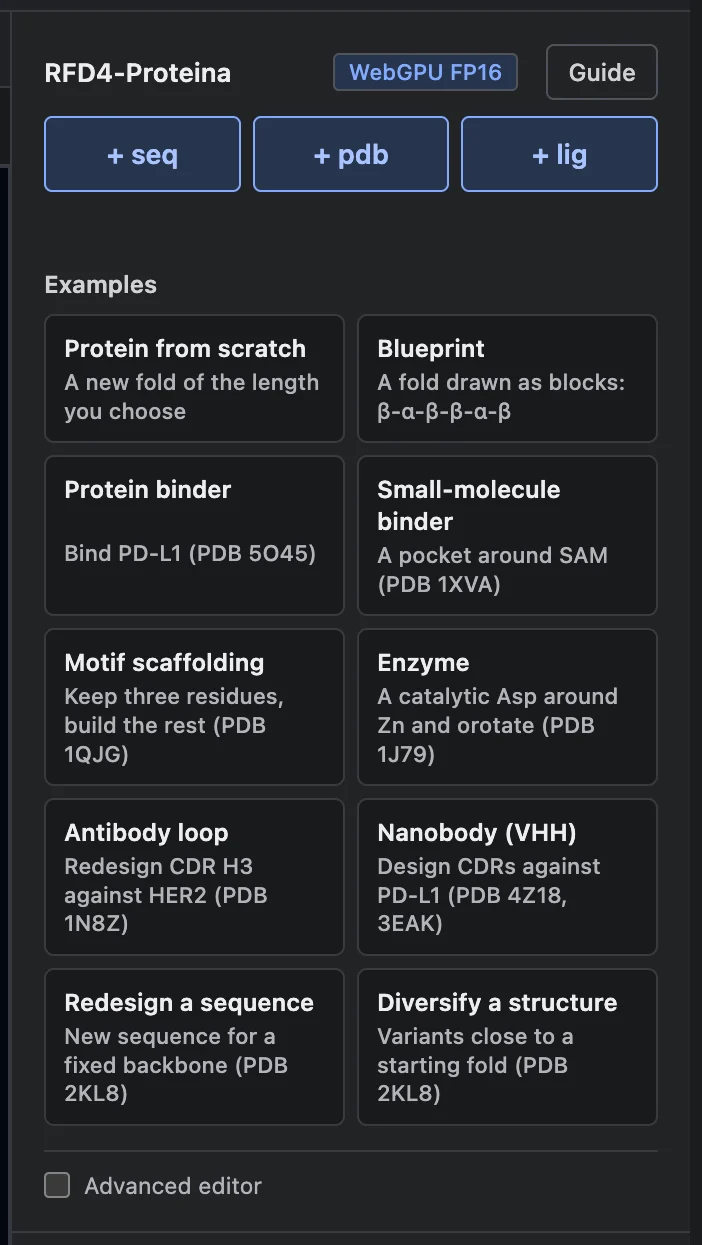
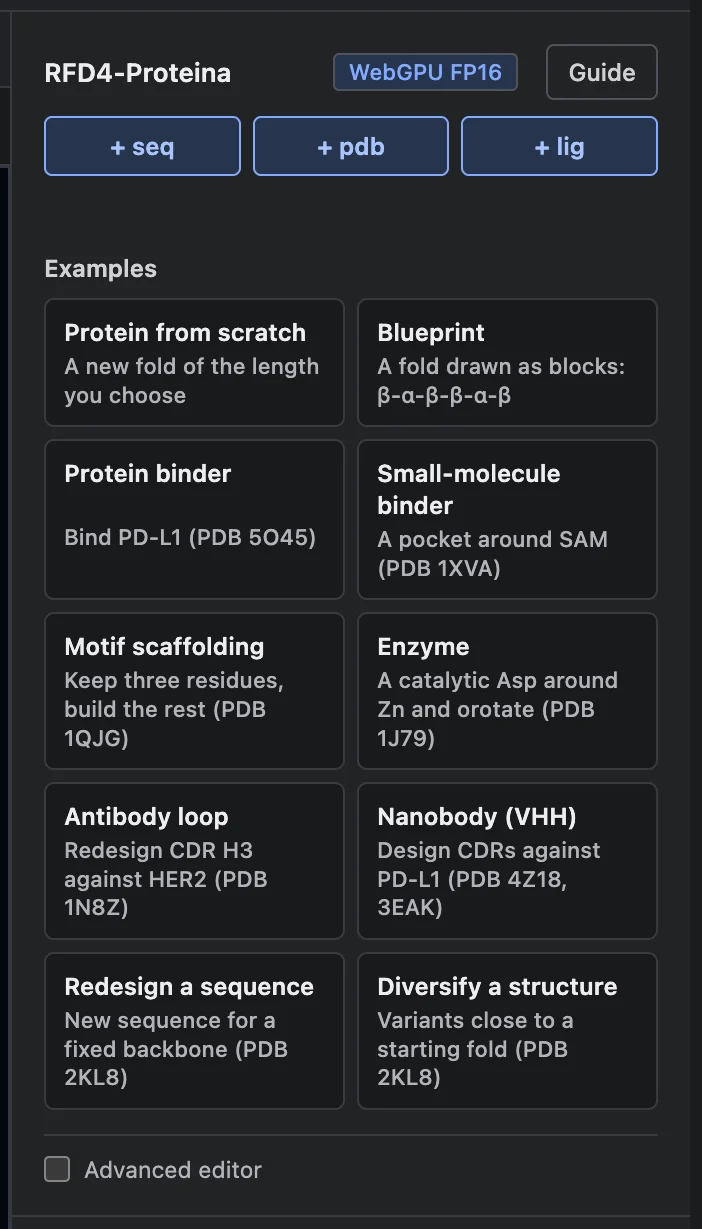
Guide popup revalidates the guide (no stale copy without its screenshots); add buttons one size everywhere

diff --git a/index.html b/index.html
@@ -10,7 +10,7 @@
     <!-- This site serves the Studio bundle itself; its offline cache would pin stale assets on Pages. -->
     <meta name="atomworks-studio-service-worker" content="off" />
     <script src="https://cdnjs.cloudflare.com/ajax/libs/jszip/3.10.1/jszip.min.js"></script>
-    <link rel="stylesheet" href="./web/styles.css?v=f2dbb3fb12" />
+    <link rel="stylesheet" href="./web/styles.css?v=e6aebd065a" />
     <!-- app.js first: its import of studio-api.js installs the /api/* fetch interceptor the Studio bundle boots against. -->
     <!-- module-versions:start (tools/stamp-modules.mjs) -->
     <script type="importmap">
@@ -41,7 +41,7 @@
           "./web/app.js": "./web/app.js?v=d387a5c921",
           "./web/design-panel.js": "./web/design-panel.js?v=3a3210fa64",
           "./web/design-spec.js": "./web/design-spec.js?v=693bf27a92",
-          "./web/guide-dialog.js": "./web/guide-dialog.js?v=ba2fd46b47",
+          "./web/guide-dialog.js": "./web/guide-dialog.js?v=df4c3ca412",
           "./web/ligand-ccd.js": "./web/ligand-ccd.js?v=b937ddbebf",
           "./web/localfold.js": "./web/localfold.js?v=8b16694f7b",
           "./web/refold-view.js": "./web/refold-view.js?v=2319c8a960",

diff --git a/web/styles.css b/web/styles.css
@@ -1094,8 +1094,8 @@ body.rfd4p-building .rfd4p-piece-pop { visibility: hidden; }
 .rfd4p-guide-body figcaption { margin-top: 4px; color: var(--muted); font-size: 12px; }
 .rfd4p-guide-body footer { margin-top: 28px; color: var(--muted); font-size: 12px; }
 
-/* + seq, + pdb, + lig: one bar across the card, tinted, so the way to build a job stands out (bigger on the start
-   screen, where it is the way in). */
+/* + seq, + pdb, + lig: one bar across the card, tinted, so the way to build a job stands out; the same on the start
+   screen and under a job. */
 #rfd4p-studio-card .rfd4p-chain-actions { display: grid; grid-template-columns: repeat(3, minmax(0, 1fr)); gap: 6px; }
 #rfd4p-studio-card .rfd4p-chain-actions > button {
   min-height: 30px; font-weight: 600; color: var(--accent-hover, #a9c4ff);
@@ -1104,4 +1104,3 @@ body.rfd4p-building .rfd4p-piece-pop { visibility: hidden; }
 #rfd4p-studio-card .rfd4p-chain-actions > button:hover:not(:disabled) {
   color: var(--accent-ink, #142038); background: var(--accent, #82aaff);
 }
-#rfd4p-studio-card .rfd4p-start-actions > button { min-height: 38px; font-size: 13.5px; }

diff --git a/web/guide-dialog.js b/web/guide-dialog.js
@@ -7,7 +7,8 @@ const GUIDE_URL = new URL('../help/index.html', import.meta.url);
 let dialog = null;
 
 async function build() {
-  const res = await fetch(GUIDE_URL);
+  // Revalidated, not taken from the cache: Pages lets a browser keep it 10 minutes, so an edited guide showed stale.
+  const res = await fetch(GUIDE_URL, { cache: 'no-cache' });
   if (!res.ok) throw new Error(`guide not found (${res.status})`);
   const page = new DOMParser().parseFromString(await res.text(), 'text/html');
   const main = page.querySelector('main');
